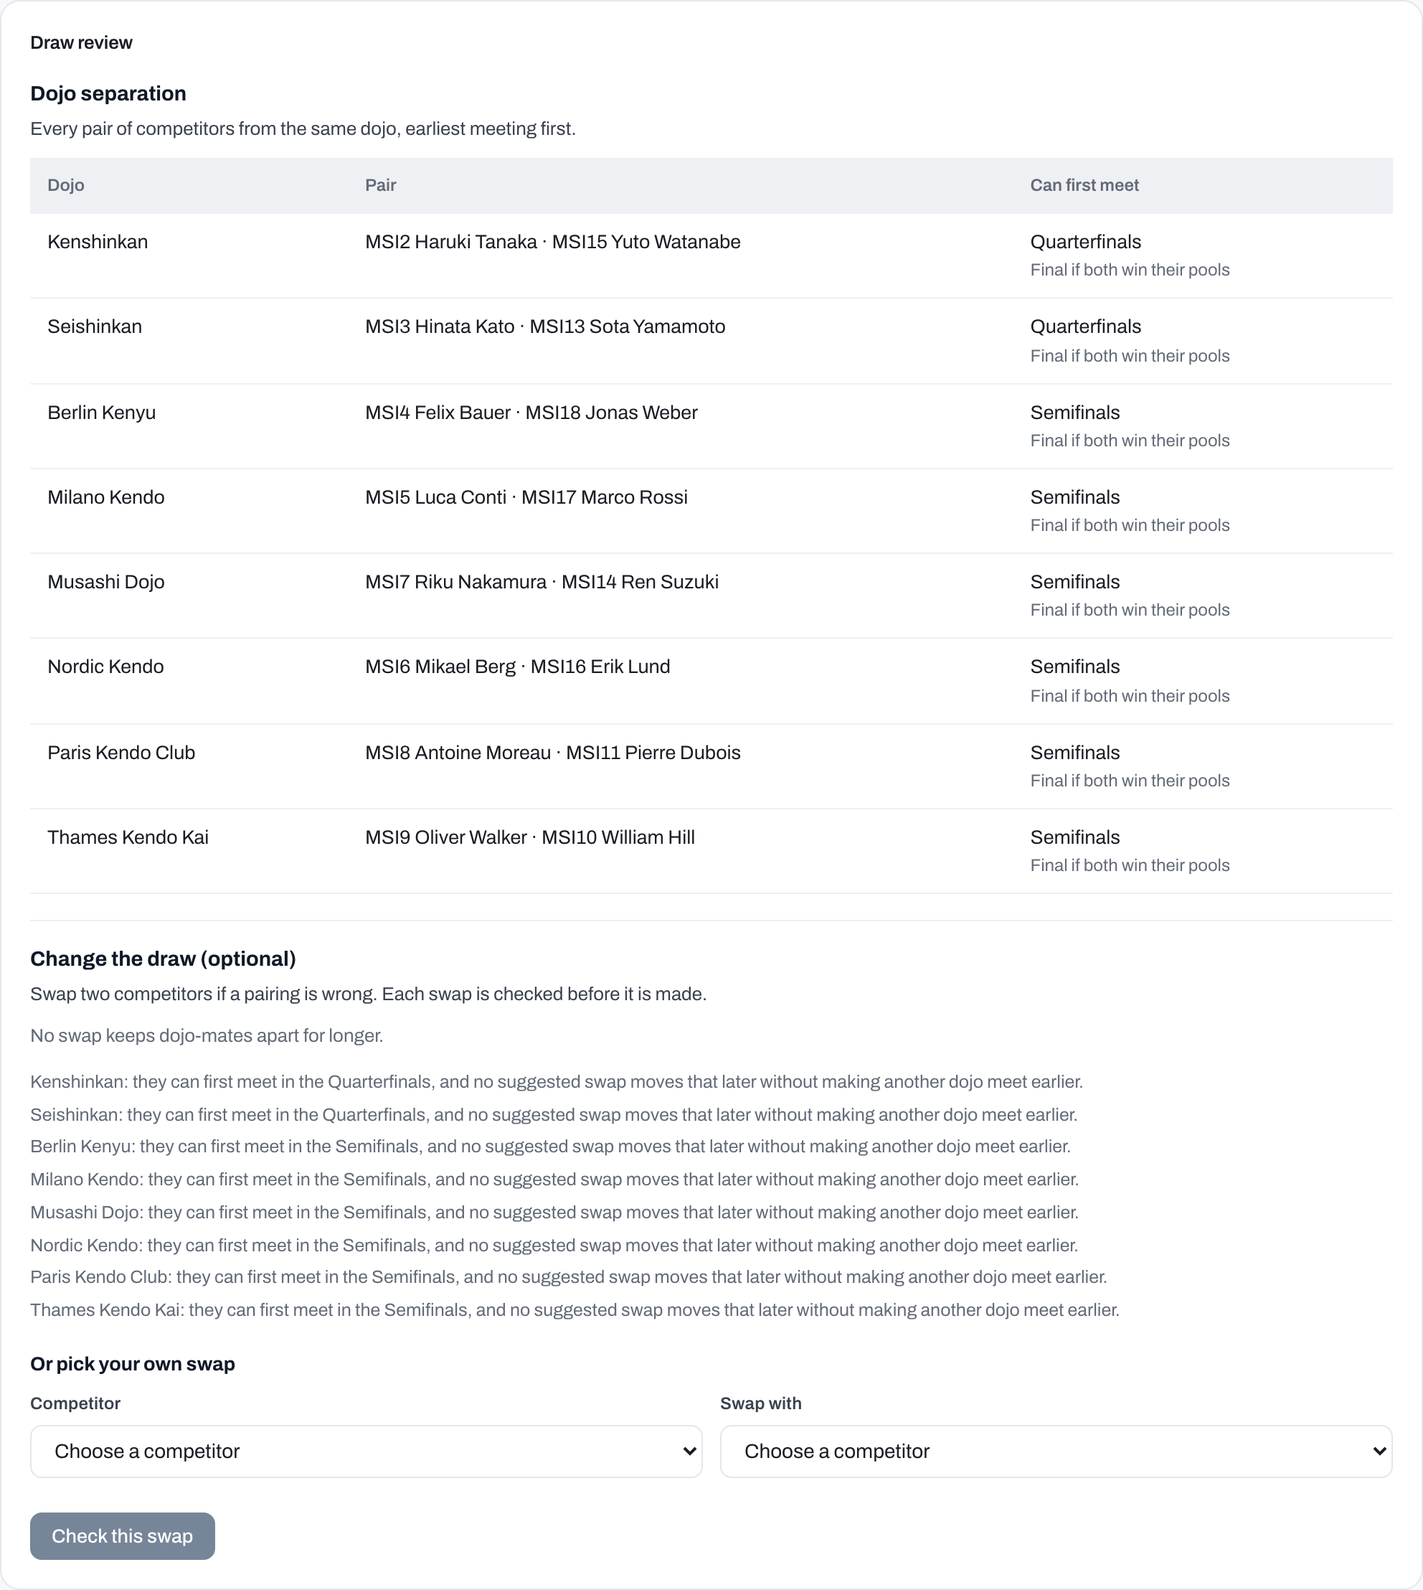
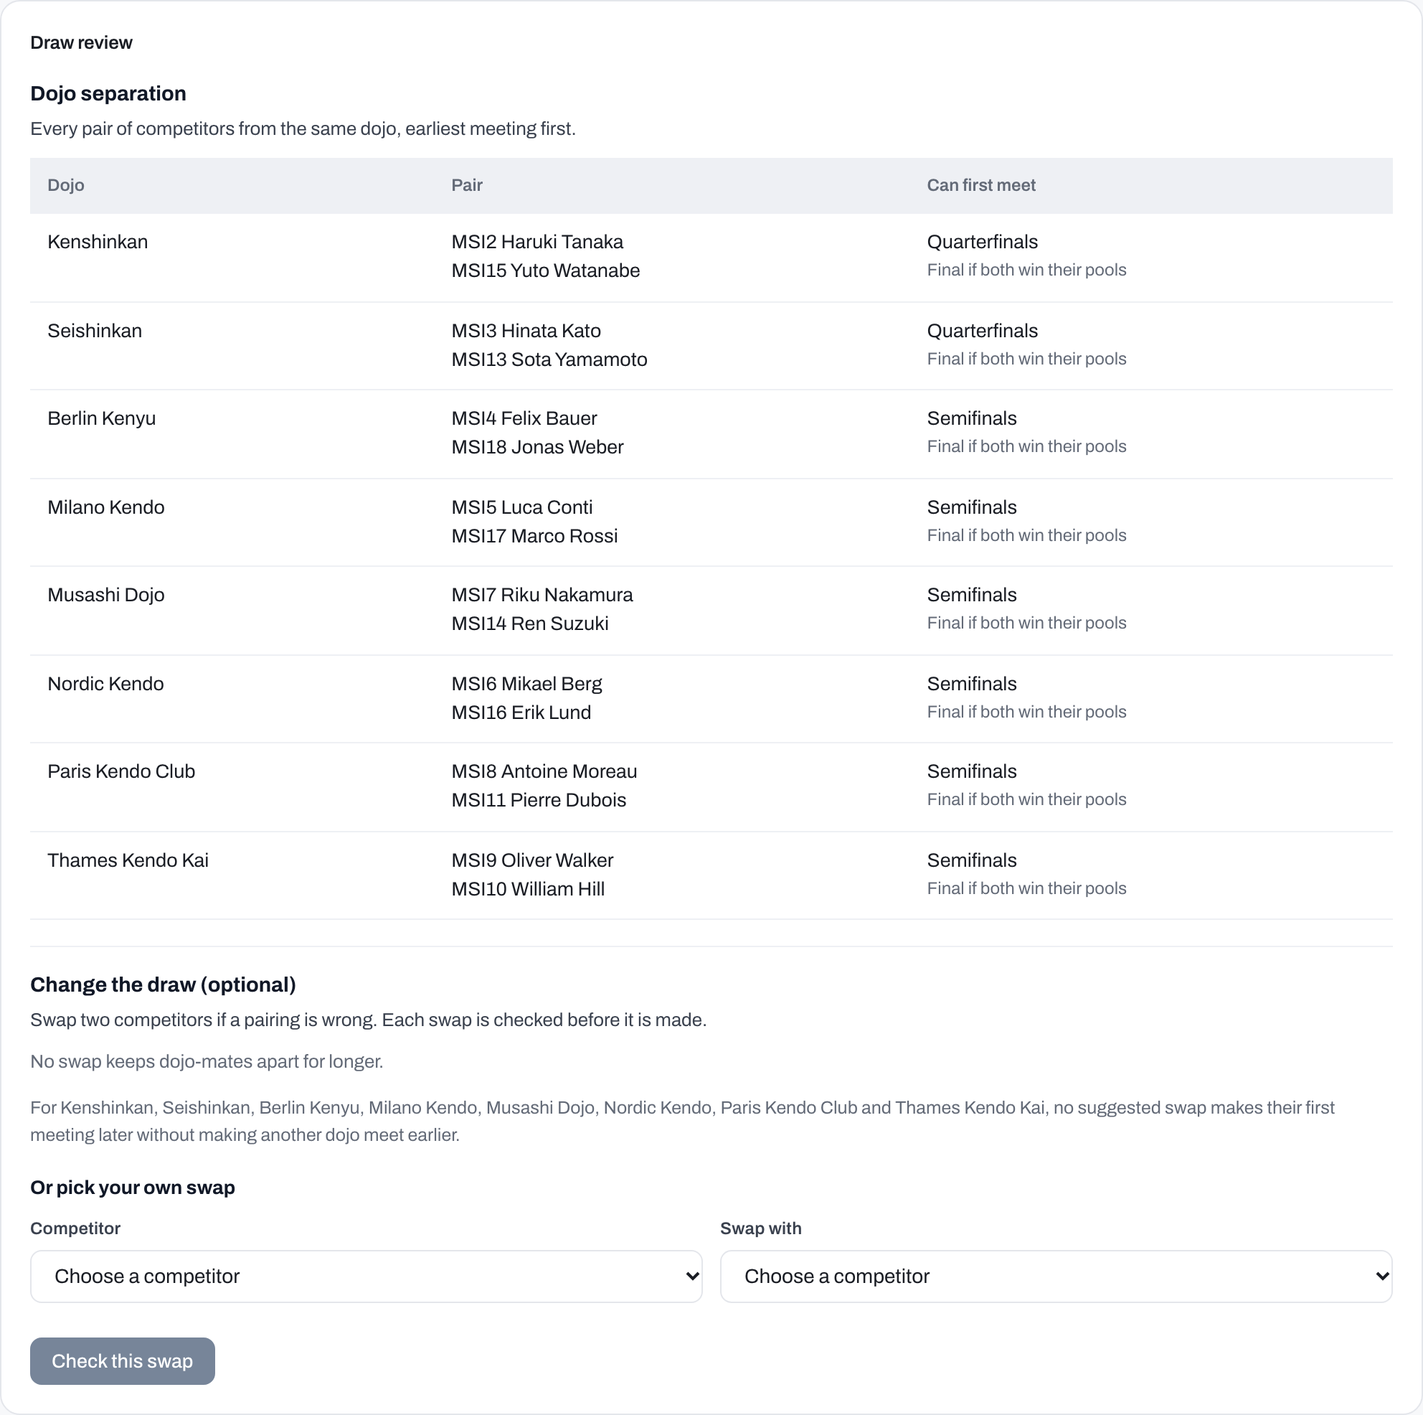
fix(bc-drev): the draw review reads plainly on a phone and marks every pick
From a Hallmark audit of the draw review screens (answers A1 to A4):

- The Pair column lists the two competitors one per line, each kept whole,
  instead of joining them with a middle dot that wrapped into one another
  on a phone; the table scrolls on a narrow screen, never the page.
- A pair's first meeting changes in words, never an arrow: "could first
  meet in the Quarterfinals, now not before the Semifinals"
  (meetingChange replaces meetingPhrase).
- The dojos no suggested swap helps share one line when the bracket is
  their reason; a dojo sharing a pool keeps its own.
- In swap mode a bracket side carries a dashed edge, as a pool row does,
  so a tablet with no hover still shows what can be tapped; both edges
  use --ink-4, since --line was too faint to see on a tinted side.
- The picker's seed is set off by a comma rather than a middle dot.

Docs: the Draw review screenshot is recaptured, and swap mode says each
tappable competitor has a dashed outline.

diff --git a/web-mobile/js/__tests__/admin_draw_review.test.jsx b/web-mobile/js/__tests__/admin_draw_review.test.jsx
@@ -3,10 +3,10 @@
 // so each one is pinned against an answer of the shape the routes give.
 import { describe, it, expect } from 'vitest';
 import {
-  reviewsDraw, canFirstMeet, pairText, stuckSentence, improvementSentence, optionLabel,
+  reviewsDraw, canFirstMeet, stuckSentences, improvementSentence, optionLabel,
 } from '../admin_draw_review.jsx';
 import {
-  drawEntrants, drawPlaceLabel, meetingPhrase, separationSentences, movesSentence, numbersSentence,
+  drawEntrants, drawPlaceLabel, meetingChange, separationSentences, movesSentence, numbersSentence,
   swapDetailLines, swapDoneToast, swapBody, competitorLabel,
 } from '../admin_draw_swap_check.jsx';
 
@@ -55,25 +55,26 @@ describe('the Can first meet cell', () => {
   });
 });
 
-describe('the Pair cell', () => {
-  it('joins the two by "·", each with their number when the competition numbers', () => {
-    expect(pairText({ a: side('a', 'Elijah Everdeen', { number: 'IMS2' }), b: side('b', 'Lena Park', { number: 'IMS5' }) }))
-      .toBe('IMS2 Elijah Everdeen · IMS5 Lena Park');
-    expect(pairText({ a: side('a', 'Elijah'), b: side('b', 'Lena') })).toBe('Elijah · Lena');
-  });
-});
-
 describe('the suggestions', () => {
-  it('words one improvement as before and after', () => {
+  it('words one improvement as before and after, in words and never an arrow', () => {
     expect(improvementSentence({ dojo: 'Team Omega', before: { samePool: 'Pool B' }, after: { earliest: meet('r1-m0', 1) } }))
-      .toBe('Team Omega: share Pool B → earliest Semifinals.');
+      .toBe('Team Omega: shared Pool B, now not before the Semifinals.');
+    expect(improvementSentence({ dojo: 'Team Omega', before: { earliest: meet('r0-m0', 0) }, after: {} }))
+      .toBe('Team Omega: could first meet in the Quarterfinals, now cannot meet in the knockout.');
   });
 
-  it('words a stuck dojo by its earliest meeting', () => {
-    expect(stuckSentence({ dojo: 'Team Pi', meeting: { earliest: meet('r0-m1', 0) } }))
-      .toBe('Team Pi: they can first meet in the Quarterfinals, and no suggested swap moves that later without making another dojo meet earlier.');
-    expect(stuckSentence({ dojo: 'Team Pi', meeting: { samePool: 'Pool A' } }))
-      .toBe('Team Pi: no suggested swap takes them out of Pool A without making another dojo meet earlier.');
+  it('words the dojos no swap helps: one line for those meeting in the bracket, one per shared pool', () => {
+    expect(stuckSentences([
+      { dojo: 'Team Pi', meeting: { earliest: meet('r0-m1', 0) } },
+      { dojo: 'Team Rho', meeting: { samePool: 'Pool A' } },
+      { dojo: 'Team Sigma', meeting: { earliest: meet('r1-m0', 1) } },
+    ])).toEqual([
+      'Team Rho: no suggested swap takes them out of Pool A without making another dojo meet earlier.',
+      'For Team Pi and Team Sigma, no suggested swap makes their first meeting later without making another dojo meet earlier.',
+    ]);
+    expect(stuckSentences([{ dojo: 'Team Pi', meeting: { earliest: meet('r0-m1', 0) } }]))
+      .toEqual(['For Team Pi, no suggested swap makes their first meeting later without making another dojo meet earlier.']);
+    expect(stuckSentences([])).toEqual([]);
   });
 });
 
@@ -87,7 +88,7 @@ describe('the pickers', () => {
     expect(groups.map((g) => g.label)).toEqual(['Pool A', 'Pool B']);
     expect(groups[0].entrants.map((e) => e.place)).toEqual([{ pool: 'Pool A', position: 1 }, { pool: 'Pool A', position: 2 }]);
     expect(groups[1].entrants.map((e) => e.id), 'a place with no participant id cannot be named').toEqual(['p3']);
-    expect(optionLabel(groups[0].entrants[0])).toBe('K1 Ann (D1) · seed 1');
+    expect(optionLabel(groups[0].entrants[0])).toBe('K1 Ann (D1), seed 1');
     expect(optionLabel(groups[0].entrants[1])).toBe('Bo (D2)');
   });
 
@@ -106,7 +107,7 @@ describe('the pickers', () => {
     const bracket = { rounds: [[{ matchNumber: 1, sideA: side('k1', 'Ann', { dojo: 'D1' }), sideB: side('k2', 'Bo', { dojo: 'D2' }) }]] };
     const comp = { format: 'knockout', players: [{ id: 'k1', seed: 1 }, { id: 'k2', seed: null }] };
     const [group] = drawEntrants(comp, [], bracket);
-    expect(optionLabel(group.entrants[0])).toBe('Ann (D1) · seed 1');
+    expect(optionLabel(group.entrants[0])).toBe('Ann (D1), seed 1');
     expect(optionLabel(group.entrants[1])).toBe('Bo (D2)');
   });
 });
@@ -135,7 +136,7 @@ describe('If you swap them', () => {
       { dojo: 'Team Kappa', a: side('b', 'Lena'), b: side('y', 'Yan'), earliest: meet('r2-m0', 2) },
     ];
     expect(separationSentences({ before, after }).map((l) => l.text)).toEqual([
-      'Team Omega: share Pool B → earliest Semifinals (later).',
+      'Team Omega: shared Pool B, now not before the Semifinals.',
       'Team Kappa: no change.',
     ]);
   });
@@ -145,7 +146,7 @@ describe('If you swap them', () => {
     const before = [pair('x', 'Xu', { earliest: meet('r2-m0', 2) }), pair('y', 'Yan', { earliest: meet('r2-m0', 2) })];
     const after = [pair('x', 'Xu', { samePool: 'Pool A' }), pair('y', 'Yan', { earliest: meet('r2-m0', 2) })];
     const lines = separationSentences({ before, after });
-    expect(lines).toEqual([{ dojo: 'D', text: 'D (Ann and Xu): earliest Final → share Pool A (earlier).', earlier: true }]);
+    expect(lines).toEqual([{ dojo: 'D', text: 'D (Ann and Xu): could first meet in the Final, now share Pool A.', earlier: true }]);
   });
 
   it('names the two tags to exchange, and nothing when the competition does not number', () => {
@@ -188,6 +189,6 @@ describe('If you swap them', () => {
 
   it('names a competitor by number then name', () => {
     expect(competitorLabel(side('a', 'Arthur', { number: 'K3' }))).toBe('K3 Arthur');
-    expect(meetingPhrase({})).toBe('cannot meet in the knockout');
+    expect(meetingChange({}, { earliest: meet('r0-m0', 0) }, false)).toBe('could not meet in the knockout, now as early as the Quarterfinals');
   });
 });

diff --git a/web-mobile/js/admin_draw_review.jsx b/web-mobile/js/admin_draw_review.jsx
@@ -19,8 +19,9 @@
 // filter, so the competitor-number search rule does not apply to them.
 
 import { competitionHasRecordedResult } from './recorded_result.jsx';
+import { andList } from './list_phrase.jsx';
 import {
-  DrawSwapCheck, effectiveFormat, drawEntrants, drawPlaceLabel, poolLabel, competitorLabel, meetingRoundName, meetingPhrase, swapDoneToast,
+  DrawSwapCheck, effectiveFormat, drawEntrants, drawPlaceLabel, poolLabel, competitorLabel, meetingRoundName, meetingChange, swapDoneToast,
 } from './admin_draw_swap_check.jsx';
 
 const { useState, useEffect } = React;
@@ -41,28 +42,31 @@ export function canFirstMeet(row) {
   return { first, second: later ? `${meetingRoundName(row.ifBothWin)} if both win their pools` : '' };
 }
 
-// pairText: the two competitors of a row, each with their number when the
-// competition numbers, joined by "·".
-export function pairText(row) {
-  return `${competitorLabel(row.a)} · ${competitorLabel(row.b)}`;
-}
-
-// stuckSentence: a dojo no suggested swap helps, and why that is all the app
-// can say about it.
-export function stuckSentence(stuck) {
-  const m = stuck.meeting || {};
-  if (m.samePool) return `${stuck.dojo}: no suggested swap takes them out of ${poolLabel(m.samePool)} without making another dojo meet earlier.`;
-  return `${stuck.dojo}: they can first meet in the ${meetingRoundName(m.earliest)}, and no suggested swap moves that later without making another dojo meet earlier.`;
+// stuckSentences: the dojos no suggested swap helps, and why that is all the
+// app can say about them. A dojo whose pair shares a pool keeps a line of its
+// own, since its pool is its reason; the others share one line, since the
+// table above already gives each its round.
+export function stuckSentences(stuck) {
+  const lines = [];
+  const meeting = [];
+  for (const st of stuck || []) {
+    const m = st.meeting || {};
+    if (m.samePool) lines.push(`${st.dojo}: no suggested swap takes them out of ${poolLabel(m.samePool)} without making another dojo meet earlier.`);
+    else meeting.push(st.dojo);
+  }
+  if (meeting.length > 0) lines.push(`For ${andList(meeting)}, no suggested swap makes their first meeting later without making another dojo meet earlier.`);
+  return lines;
 }
 
 // improvementSentence: one pair a suggestion keeps apart longer.
 export function improvementSentence(imp) {
-  return `${imp.dojo}: ${meetingPhrase(imp.before)} → ${meetingPhrase(imp.after)}.`;
+  return `${imp.dojo}: ${meetingChange(imp.before, imp.after, true)}.`;
 }
 
 // optionLabel: a competitor in a picker: number, name, dojo, a seed marked.
+// The seed is set off by a comma, never a middle dot (list_phrase.jsx).
 export function optionLabel(e) {
-  const seed = e.seed > 0 ? ` · seed ${e.seed}` : '';
+  const seed = e.seed > 0 ? `, seed ${e.seed}` : '';
   return `${competitorLabel(e)}${e.dojo ? ` (${e.dojo})` : ''}${seed}`;
 }
 
@@ -119,7 +123,10 @@ function SeparationTable({ meetings }) {
             return (
               <tr key={`${row.a.id}\u001f${row.b.id}`} data-testid="dojo-separation-row" className={row.samePool ? 'draw-review__row--same-pool' : undefined}>
                 <td>{row.dojo}</td>
-                <td>{pairText(row)}</td>
+                <td>
+                  <div className="draw-review__who">{competitorLabel(row.a)}</div>
+                  <div className="draw-review__who">{competitorLabel(row.b)}</div>
+                </td>
                 <td>
                   <div>{meet.first}</div>
                   {meet.second && <div className="draw-review__second">{meet.second}</div>}
@@ -163,7 +170,7 @@ function Suggestions({ answer, bracket, onPick }) {
       )}
       {stuck.length > 0 && (
         <ul className="draw-review__stuck" data-testid="swap-stuck">
-          {stuck.map((st) => <li key={st.dojo}>{stuckSentence(st)}</li>)}
+          {stuckSentences(stuck).map((line) => <li key={line}>{line}</li>)}
         </ul>
       )}
     </div>

diff --git a/web-mobile/js/admin_draw_swap_check.jsx b/web-mobile/js/admin_draw_swap_check.jsx
@@ -105,13 +105,26 @@ export function meetingRoundName(meeting) {
   return bracketRoundLabel({ displayRound: meeting.displayRound }, meeting.round, meeting.rounds);
 }
 
-// meetingPhrase: where a pair of dojo-mates can first meet, in a few words for
-// a sentence ("share Pool B", "earliest Semifinals").
-export function meetingPhrase(row) {
-  if (!row) return '';
-  if (row.samePool) return `share ${poolLabel(row.samePool)}`;
-  if (row.earliest) return `earliest ${meetingRoundName(row.earliest)}`;
-  return 'cannot meet in the knockout';
+// meetingChange: how a pair of dojo-mates' first meeting moves, in words:
+// "could first meet in the Quarterfinals, now not before the Semifinals",
+// "shared Pool B, now not before the Semifinals" or "could first meet in the
+// Semifinals, now as early as the Quarterfinals". Words, never an arrow
+// between the two (Hallmark gate 63). `later` is true when the meeting moves
+// later, as separationChanges and the suggestions judge it.
+export function meetingChange(before, after, later) {
+  return `${meetingWas(before)}, ${meetingNow(after, later)}`;
+}
+
+function meetingWas(row) {
+  if (row && row.samePool) return `shared ${poolLabel(row.samePool)}`;
+  if (row && row.earliest) return `could first meet in the ${meetingRoundName(row.earliest)}`;
+  return 'could not meet in the knockout';
+}
+
+function meetingNow(row, later) {
+  if (row && row.samePool) return `now share ${poolLabel(row.samePool)}`;
+  if (row && row.earliest) return `now ${later ? 'not before' : 'as early as'} the ${meetingRoundName(row.earliest)}`;
+  return 'now cannot meet in the knockout';
 }
 
 // fromEnd: how many rounds before the final a meeting is (0 = the final).
@@ -171,8 +184,8 @@ export function separationChanges(separation) {
 }
 
 // separationSentences: separationChanges in words, one line per dojo:
-// "Team Omega: share Pool B → earliest Semifinals (later)." or "Team Kappa:
-// no change." A dojo of more than one pair names the pair.
+// "Team Omega: shared Pool B, now not before the Semifinals." or "Team
+// Kappa: no change." A dojo of more than one pair names the pair.
 export function separationSentences(separation) {
   const lines = [];
   for (const d of separationChanges(separation)) {
@@ -181,7 +194,7 @@ export function separationSentences(separation) {
       const who = d.pairs > 1 ? ` (${ch.a.name} and ${ch.b.name})` : '';
       lines.push({
         dojo: d.dojo,
-        text: `${d.dojo}${who}: ${meetingPhrase(ch.before)} → ${meetingPhrase(ch.after)} (${ch.later ? 'later' : 'earlier'}).`,
+        text: `${d.dojo}${who}: ${meetingChange(ch.before, ch.after, ch.later)}.`,
         earlier: !ch.later,
       });
     }

diff --git a/web-mobile/js/__tests__/render/draw_review_panel.render.test.jsx b/web-mobile/js/__tests__/render/draw_review_panel.render.test.jsx
@@ -79,9 +79,12 @@ describe('the Draw review card', () => {
     expect(within(sep).getByText('Every pair of competitors from the same dojo, earliest meeting first.')).toBeInTheDocument();
     const rows = screen.getAllByTestId('dojo-separation-row');
     expect(rows.map((r) => r.textContent)).toEqual([
-      'Team OmegaIMS1 Arthur Dick · IMS3 Xu LinShare Pool A',
-      'Team KappaIMS2 Lena Park · IMS4 Yan WuSemifinalsFinal if both win their pools',
+      'Team OmegaIMS1 Arthur DickIMS3 Xu LinShare Pool A',
+      'Team KappaIMS2 Lena ParkIMS4 Yan WuSemifinalsFinal if both win their pools',
     ]);
+    // One competitor per line in the Pair cell, never joined by a dot, so a
+    // narrow screen never wraps one name into the other.
+    expect([...rows[0].querySelectorAll('td')[1].children].map((n) => n.textContent)).toEqual(['IMS1 Arthur Dick', 'IMS3 Xu Lin']);
     expect(window.API.fetchDojoSeparation).toHaveBeenCalledWith('c1', 'pw');
   });
 
@@ -108,10 +111,10 @@ describe('the Draw review card', () => {
     await mount();
     const item = screen.getByTestId('swap-suggestion');
     expect(item.textContent).toContain('Swap IMS3 Xu Lin (Pool A) and IMS4 Yan Wu (Pool B)');
-    expect(item.textContent).toContain('Team Omega: share Pool A → earliest Semifinals.');
+    expect(item.textContent).toContain('Team Omega: shared Pool A, now not before the Semifinals.');
     expect(item.textContent).toContain('Nobody else meets earlier.');
     expect(screen.getByTestId('swap-stuck').textContent)
-      .toBe('Team Pi: they can first meet in the Quarterfinals, and no suggested swap moves that later without making another dojo meet earlier.');
+      .toBe('For Team Pi, no suggested swap makes their first meeting later without making another dojo meet earlier.');
   });
 
   it('opens the check for a suggestion with the places the server gave', async () => {
@@ -126,7 +129,7 @@ describe('the Draw review card', () => {
     await mount();
     const pickA = screen.getByTestId('swap-pick-a');
     expect([...pickA.querySelectorAll('optgroup')].map((g) => g.label)).toEqual(['Pool A', 'Pool B']);
-    expect(pickA.querySelector('option[value="p1"]').textContent).toBe('IMS1 Arthur Dick (Team Omega) · seed 1');
+    expect(pickA.querySelector('option[value="p1"]').textContent).toBe('IMS1 Arthur Dick (Team Omega), seed 1');
     const check = screen.getByTestId('swap-check-btn');
     expect(check).toBeDisabled();
     await act(async () => { fireEvent.change(pickA, { target: { value: 'p1' } }); });

diff --git a/web-mobile/css/styles.css b/web-mobile/css/styles.css
@@ -12824,6 +12824,11 @@ abbr.msb-lab { text-decoration: none; cursor: help; }
 .draw-review__table td {
   vertical-align: top;
 }
+/* One competitor per line in the Pair cell, never broken inside: the table
+   scrolls instead (above). */
+.draw-review__who {
+  white-space: nowrap;
+}
 .draw-review__row--same-pool td:last-child {
   color: var(--warn-ink);
   font-weight: 600;
@@ -12964,7 +12969,7 @@ button.swap-pick {
   min-height: max(36px, var(--tap-floor));
   padding: 4px 8px;
   background: transparent;
-  border: 1px dashed var(--line);
+  border: 1px dashed var(--ink-4);
   border-radius: 6px;
 }
 :where(button.bc-side.swap-pick) {
@@ -12986,6 +12991,13 @@ button.bc-side.swap-pick.swap-pick--picked {
   background: var(--accent-soft);
   box-shadow: inset 0 0 0 2px var(--accent);
   font-weight: 700;
+}
+/* A bracket side has no border of its own to dash (its colour edge is the
+   side's), so its pick mark is a dashed outline drawn inside it: the card
+   does not move, and the focus ring and the picked ring replace it. */
+button.bc-side.swap-pick:not(.swap-pick--picked):not(:focus-visible) {
+  outline: 1px dashed var(--ink-4);
+  outline-offset: -4px;
 }
 button.swap-pick:focus-visible {
   outline: 2px solid var(--accent);

diff --git a/web-mobile/js/__tests__/render/draw_swap_check.render.test.jsx b/web-mobile/js/__tests__/render/draw_swap_check.render.test.jsx
@@ -60,7 +60,7 @@ describe('If you swap them', () => {
     expect(window.API.swapDrawPlaces).toHaveBeenCalledWith('c1',
       { a: { id: 'a', place: a.place }, b: { id: 'b', place: b.place }, dryRun: true }, 'pw');
     expect(screen.getByTestId('swap-moves').textContent).toBe('Arthur Dick goes to Pool C, Lena Park to Pool B.');
-    expect(screen.getByTestId('swap-separation').textContent).toContain('Team Omega: share Pool B → earliest Semifinals (later).');
+    expect(screen.getByTestId('swap-separation').textContent).toContain('Team Omega: shared Pool B, now not before the Semifinals.');
     expect(screen.getByTestId('swap-numbers').textContent)
       .toBe('Numbers stay with the place: Arthur Dick takes IMS8, Lena Park takes IMS4. Swap their tags.');
     expect(screen.getByText('Arthur Dick is seed 2 and moves to Pool C.')).toBeInTheDocument();

diff --git a/docs/user-guide/organisers/run-tournament.md b/docs/user-guide/organisers/run-tournament.md
@@ -269,7 +269,7 @@ A draw-ready competition is already listed on the shiai-jo operator views, since
 
 A **Pools + Knockout** or **Knockout only** competition whose draw is ready shows a **Draw review** card on its **Overview**. It shows when two competitors from the same dojo can first meet. If a pairing is wrong, you can swap two competitors there and then, without discarding the draw. League and Swiss competitions have no card.
 
-![The Draw review card: the Dojo separation table with one row per pair of dojo-mates and the round where they can first meet, then Change the draw (optional) with a line for each dojo that no suggested swap helps and the two pickers for your own swap.](../../screenshots/mobile-draw-review.png)
+![The Draw review card: the Dojo separation table with one row per pair of dojo-mates and the round where they can first meet, then Change the draw (optional) with one line naming the dojos that no suggested swap helps and the two pickers for your own swap.](../../screenshots/mobile-draw-review.png)
 
 #### Dojo separation
 
@@ -309,7 +309,7 @@ If the draw changed on another device while the panel was open, the swap is not 
 
 You can also swap straight from the draw. **Pools (preview)** of a **Pools + Knockout** competition, and **Bracket (preview)** of a **Knockout only** competition, have a **Swap competitors** button. A Pools + Knockout bracket has none, because its places are pool places, such as Pool A-1st, rather than competitors.
 
-With the mode on, a banner reads "Swap competitors: on." and taps no longer open score sheets. Tap a competitor to pick them; tap them again to put them back. Tap a second competitor and the same **If you swap them** panel opens. After a swap the mode stays on, so you can make another; **Done**, Escape, or leaving the tab turns it off.
+With the mode on, a banner reads "Swap competitors: on." and taps no longer open score sheets. Every competitor you can tap has a dashed outline. Tap a competitor to pick them; tap them again to put them back. Tap a second competitor and the same **If you swap them** panel opens. After a swap the mode stays on, so you can make another; **Done**, Escape, or leaving the tab turns it off.
 
 #### Before the first result
 
